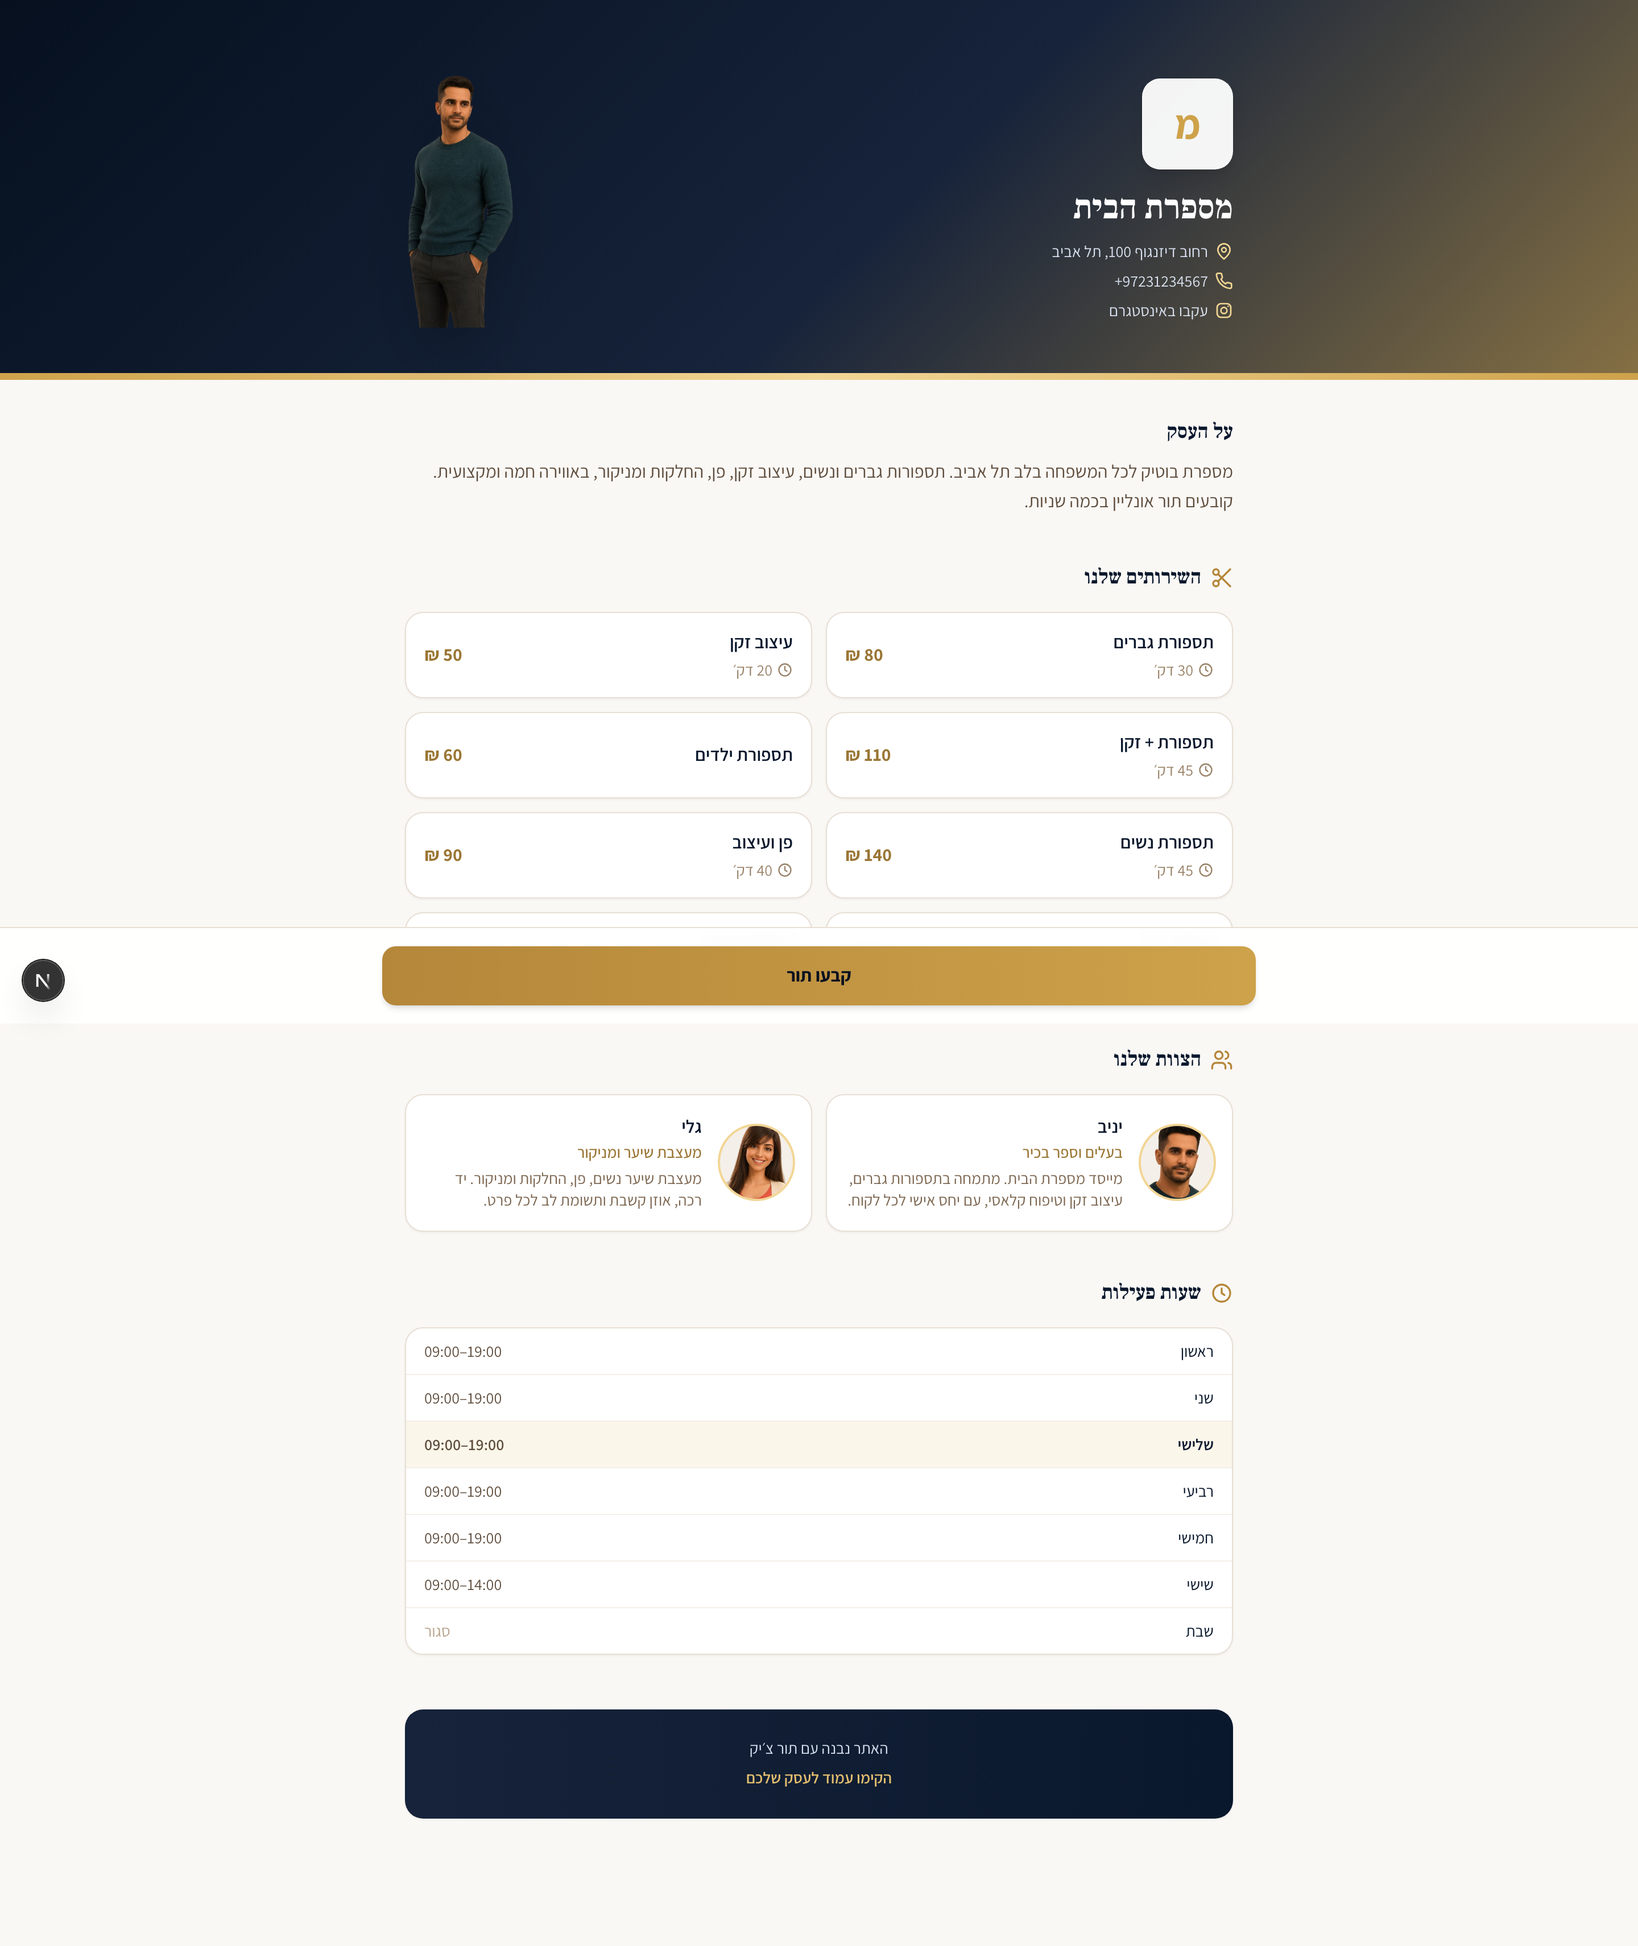
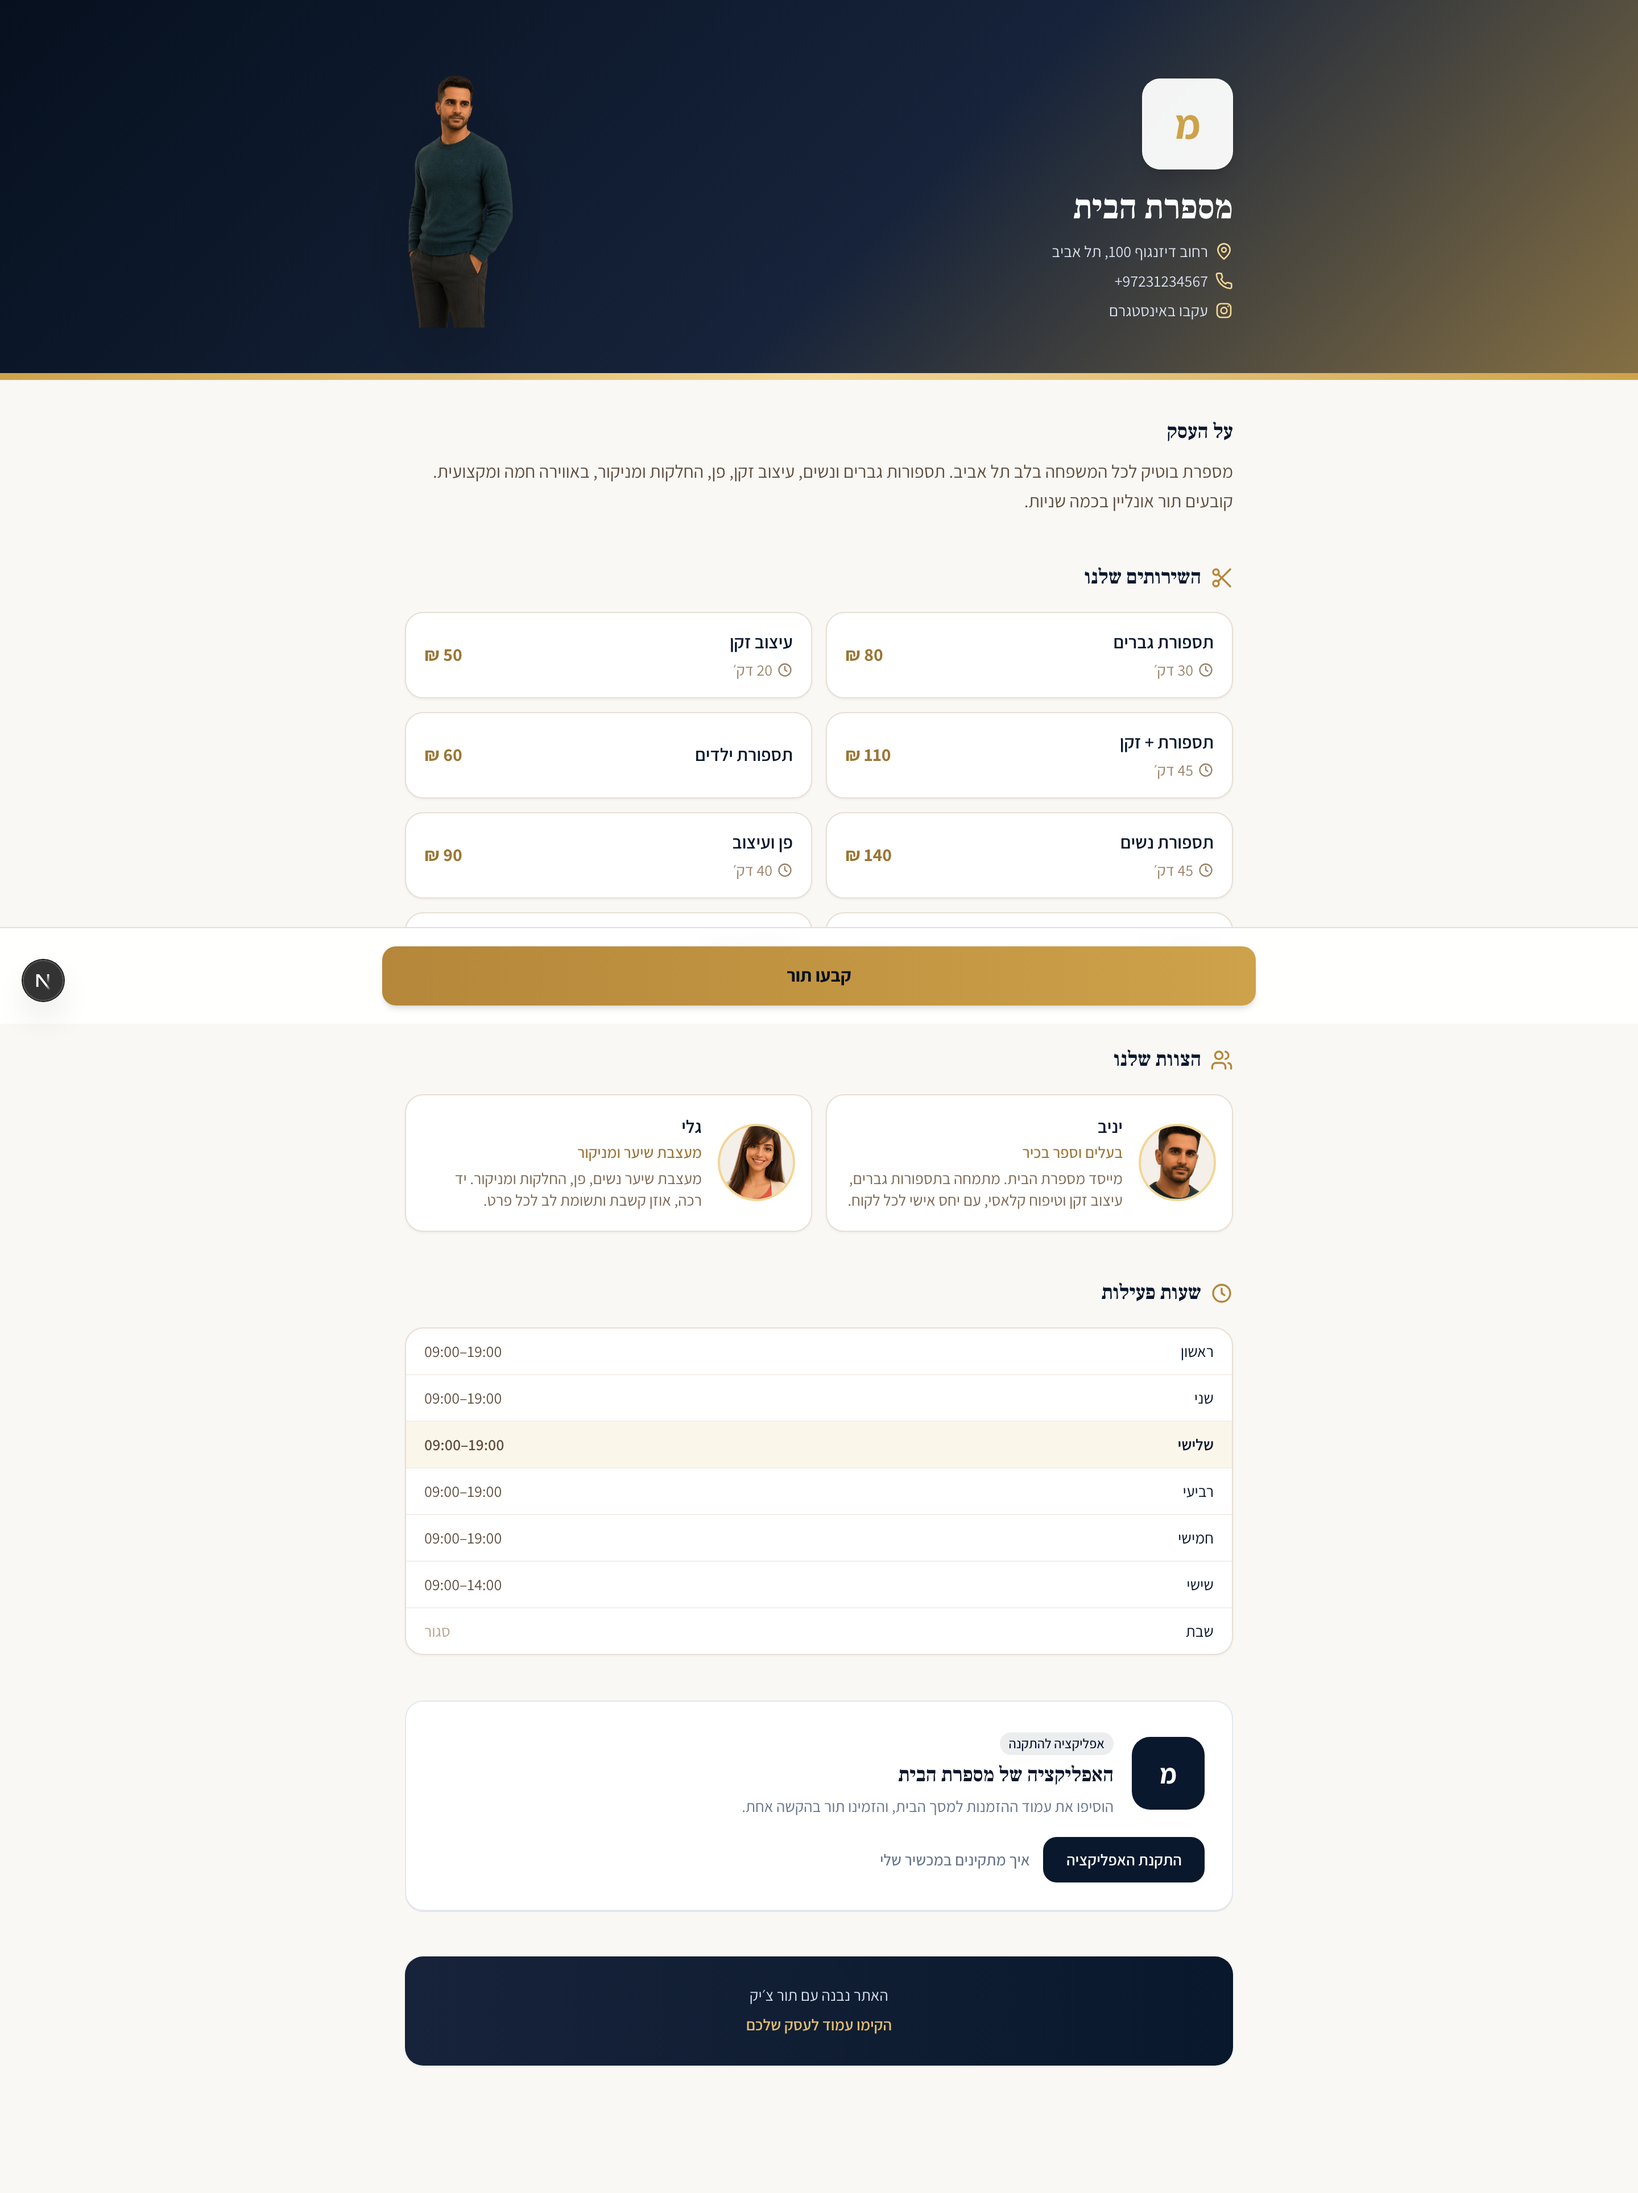
צילומי תצוגה: כפיית גלוּיוּת Reveal ב-fullPage וכרטיס get-app
- scripts/shoot-previews.mjs: forceVisible מזריק override של opacity/transform
  כדי שכל סקשני ה-Reveal (framer-motion whileInView) יופיעו בצילום המלא
- src/app/page.tsx: id="get-app" לסקשן התקנת האפליקציה לצילום ממוקד
- ריענון 18 צילומי תצוגה (דסקטופ+מובייל): עמוד בית מלא, hero, קהלים,
  פיצ׳רים, איך זה עובד, הגירה, get-app, ועמוד עסק ממותג

diff --git a/src/app/page.tsx b/src/app/page.tsx
@@ -374,7 +374,7 @@ export default async function HomePage() {
         </Section>
 
         {/* PWA INSTALL (platform) */}
-        <Section>
+        <Section id="get-app">
           <Container>
             <Reveal>
               <div className="mx-auto max-w-2xl">
